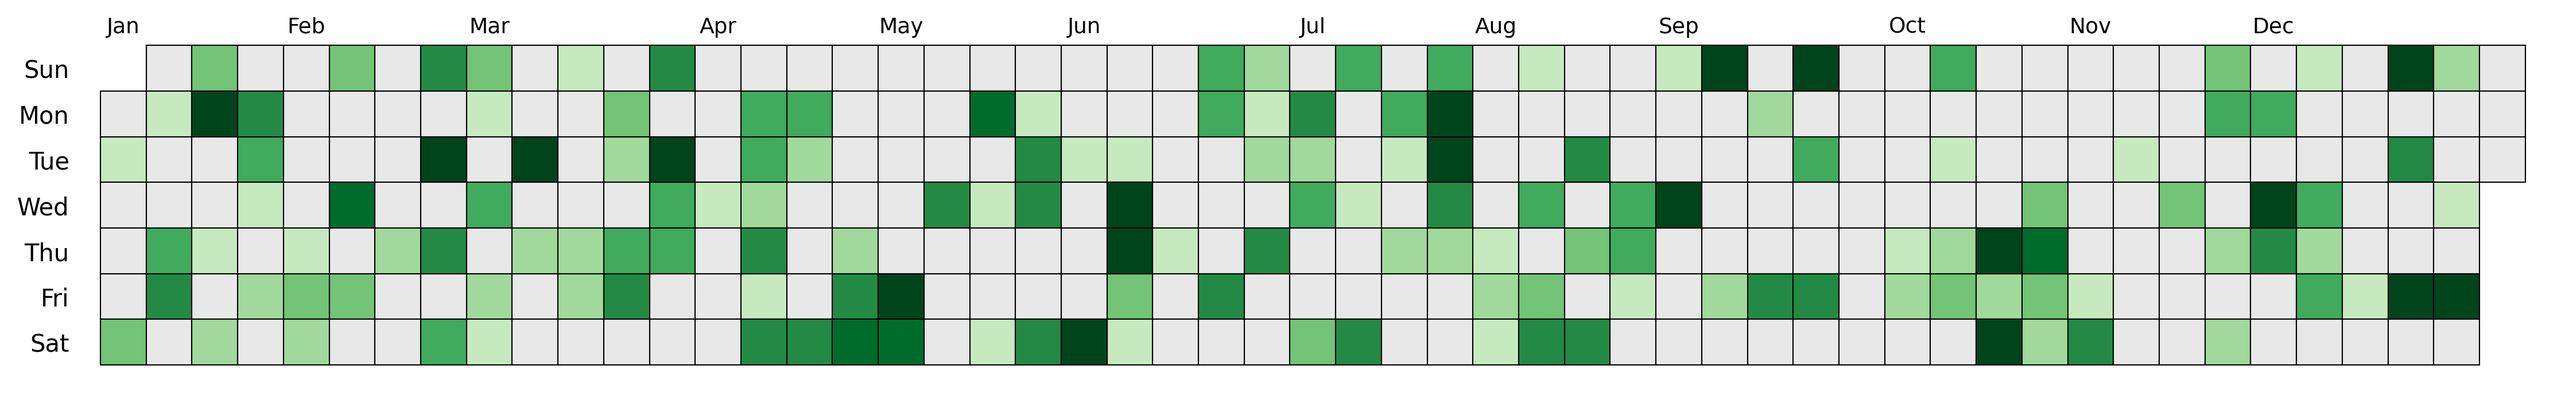
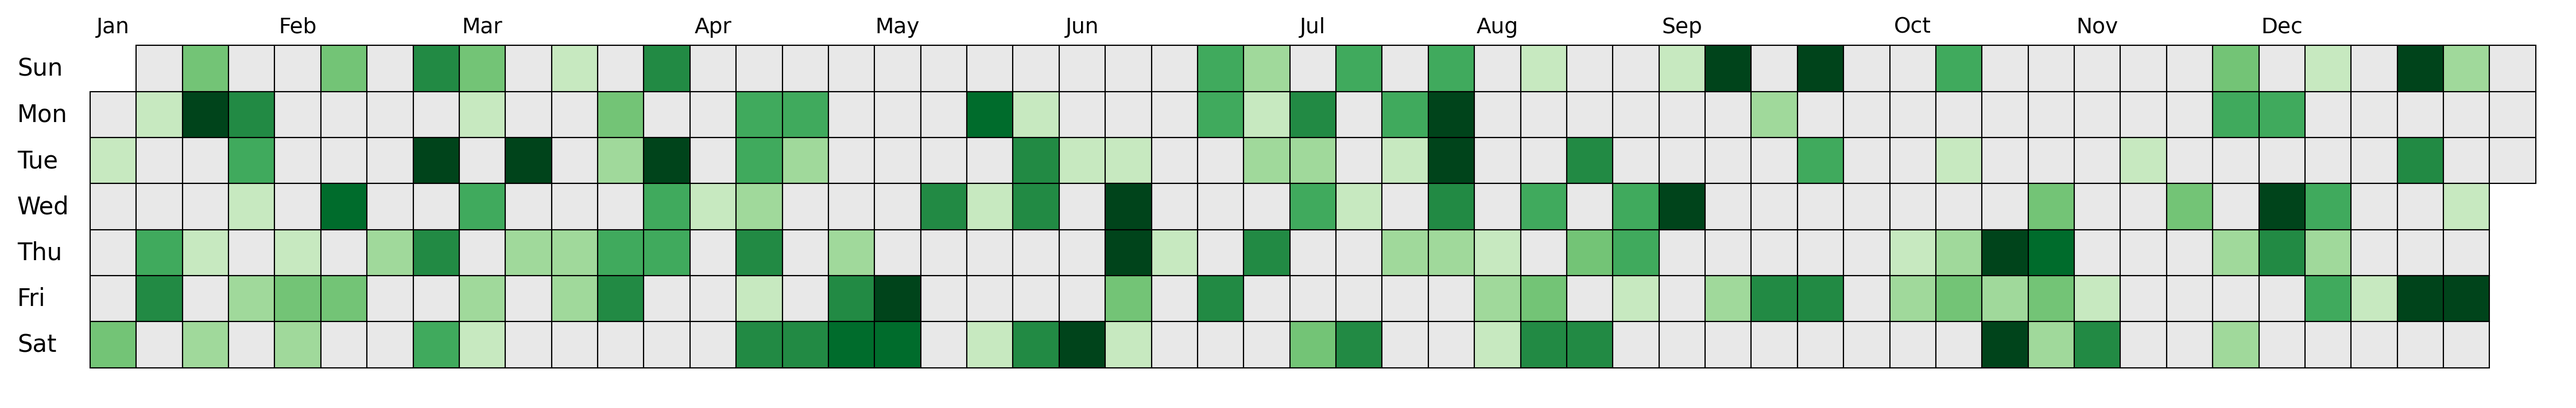
more options

diff --git a/dayplot/main.py b/dayplot/main.py
@@ -1,7 +1,7 @@
 import matplotlib.pyplot as plt
 import matplotlib.patches as patches
+from matplotlib.colors import LinearSegmentedColormap
 import numpy as np
-import pandas as pd
 
 from collections import defaultdict
 from datetime import datetime, timedelta
@@ -15,51 +15,98 @@ def github_chart(
     edgecolor="black",
     color_for_none="#e8e8e8",
     cmap="Greens",
+    month_kws={},
+    day_kws={},
 ):
     """
     Create a GitHub-style heatmap (contribution chart) from input dates and values.
 
+    This function generates a calendar heatmap similar to GitHub's contribution graph, where
+    each cell represents a day colored according to the corresponding value. The chart is
+    organized by weeks (columns) and days of the week (rows), starting from a specified
+    start date to an end date.
+
     Parameters
     ----------
     dates : list
-        A list of date-like objects (date, datetime, or string in YYYY-MM-DD format).
-        Must have the same length as 'values'.
+        A list of date-like objects (e.g., `datetime.date`, `datetime.datetime`, or
+        strings in "YYYY-MM-DD" format). Must have the same length as `values`.
     values : list of int or float
-        Contribution (or count) values corresponding to each date.
-        Must have the same length as 'dates'.
-    start_date : date, datetime, or str, optional
-        The earliest date to display on the chart. If not provided,
-        the min date found in `dates` is used.
-    end_date : date, datetime, or str, optional
-        The latest date to display on the chart. If not provided,
-        the max date found in `dates` is used.
-    cmap : str, optional
-        A valid matplotlib colormap name. Defaults to "Greens".
+        A list of numeric values corresponding to each date in `dates`. These values
+        represent contributions or counts for each day and must have the same length
+        as `dates`.
+    start_date : {None, date, datetime, str}, optional
+        The earliest date to display on the chart. Can be a `date`, `datetime`, or a
+        string in "YYYY-MM-DD" format. If not provided, the minimum date found in
+        `dates` will be used.
+    end_date : {None, date, datetime, str}, optional
+        The latest date to display on the chart. Can be a `date`, `datetime`, or a
+        string in "YYYY-MM-DD" format. If not provided, the maximum date found in
+        `dates` will be used.
+    edgecolor : str, optional
+        Color of the edges for each day's rectangle. Defaults to `"black"`.
+    color_for_none : str, optional
+        Color to use for days with no contributions (i.e., count zero). Defaults to
+        `"#e8e8e8"`, a light gray color.
+    cmap : {str, LinearSegmentedColormap}, optional
+        A valid Matplotlib colormap name or a `LinearSegmentedColormap` instance.
+        Defaults to `"Greens"`. The colormap is used to determine the fill color
+        intensity of each day's cell based on its value.
+    month_kws : dict, optional
+        Additional keyword arguments passed to the matplotlib.axes.Axes.text function when
+        labeling month names (outside of `x`, `y` and `s`).
+    day_kws : dict, optional
+        Additional keyword arguments passed to the matplotlib.axes.Axes.text function when
+        labeling weekday names on the y-axis (outside of `x`, `y` and `s`).
 
     Returns
     -------
     fig : matplotlib.figure.Figure
-        The figure object for the chart.
+        The Matplotlib figure object containing the heatmap.
     ax : matplotlib.axes.Axes
-        The axes object containing the heatmap.
+        The Matplotlib axes object on which the heatmap is plotted.
+
+    Notes
+    -----
+    - The function aggregates multiple entries for the same date by summing their
+      values.
+    - The grid is laid out with weeks as columns and days of the week as rows, starting
+      with Sunday at the top. The y-axis is inverted so that Sunday appears at the
+      top of the chart.
+    - Month labels are placed above the chart aligned with the start of each month.
+    - Weekday labels are placed to the left of the chart.
+    - The heatmap color intensity is scaled relative to the 90th percentile of all
+      non-zero values to reduce the impact of outliers.
+
+    Examples
+    --------
+    >>> import dayplot as dplot
+    >>> import pandas as pd
+    >>> df = pd.DataFrame({
+    ...     'date': ['2024-01-01', '2024-01-02', '2024-01-03'],
+    ...     'values': [5, 10, 3]
+    ... })
+    >>> fig, ax = dplot.github_chart(
+    ...     df['date'],
+    ...     df['values'],
+    ...     start_date='2024-01-01',
+    ...     end_date='2024-01-31'
+    ...)
+    >>> fig.show()
     """
 
     if len(dates) != len(values):
         raise ValueError("`dates` and `values` must have the same length.")
 
-    # 1) Build a dictionary that maps each date to a summed value
     date_counts = defaultdict(int)
     for d, v in zip(dates, values):
-        # Convert datetime to date if needed
         if isinstance(d, datetime):
             d = d.date()
-        # Convert string to date if needed
         elif isinstance(d, str):
             d = datetime.strptime(d, "%Y-%m-%d").date()
 
         date_counts[d] += v
 
-    # 2) Determine the min and max date from the data if not supplied
     min_data_date = min(date_counts.keys())
     max_data_date = max(date_counts.keys())
 
@@ -68,7 +115,6 @@ def github_chart(
     if end_date is None:
         end_date = max_data_date
 
-    # Convert start_date and end_date to date objects if needed
     if isinstance(start_date, datetime):
         start_date = start_date.date()
     elif isinstance(start_date, str):
@@ -79,15 +125,9 @@ def github_chart(
     elif isinstance(end_date, str):
         end_date = datetime.strptime(end_date, "%Y-%m-%d").date()
 
-    # 3) Build the full date range
     delta_days = (end_date - start_date).days + 1
     full_range = [start_date + timedelta(days=i) for i in range(delta_days)]
 
-    # 4) Prepare data for plotting
-    #    We'll map each date to (week_index, day_of_week, count).
-    #    day_of_week = Monday(0) ... Sunday(6)
-    #    week_index is how many weeks from the start date.
-    #    We'll center the date's "week index" around Monday(0).
     data_for_plot = []
     for d in full_range:
         days_from_start = (d - start_date).days
@@ -97,23 +137,30 @@ def github_chart(
         count = date_counts.get(d, 0)
         data_for_plot.append((week_index, day_of_week, count))
 
-    # Number of weeks in the entire range
     total_weeks = (end_date - start_date).days // 7 + 1
 
-    # 5) Create the plot
     fig, ax = plt.subplots(figsize=(15, 6))
     ax.set_aspect("equal")
 
-    # If we have nonzero contributions, find the 90th percentile for color scaling
     valid_counts = [val for val in date_counts.values() if val > 0]
     if valid_counts:
         p90 = np.percentile(valid_counts, 90)
     else:
         p90 = 1  # fallback if no nonzero values
 
+    if isinstance(cmap, str):
+        cmap = plt.get_cmap(cmap)
+    elif isinstance(cmap, LinearSegmentedColormap):
+        pass
+    else:
+        raise ValueError(
+            "Invalid cmap input. It must be either a valid matplotlib colormap"
+            "  (string) or a matplotlib.colors.LinearSegmentedColormap"
+        )
+
     for week, weekday, count in data_for_plot:
         if count > 0:
-            color = plt.get_cmap(cmap)((count + 1) / (p90 + 1))
+            color = cmap((count + 1) / (p90 + 1))
         else:
             color = color_for_none
         rect = patches.Rectangle(
@@ -121,6 +168,12 @@ def github_chart(
         )
         ax.add_patch(rect)
 
+    month_text_style = dict(
+        ha="center",
+        va="center",
+        fontsize=9,
+    )
+    month_text_style.update(month_kws)
     month_starts = [d for d in full_range if d.day == 1]
     for m_start in month_starts:
         week_of_month = ((m_start - start_date).days + start_date.weekday()) // 7
@@ -128,19 +181,31 @@ def github_chart(
             week_of_month + 0.5,
             -0.4,  # place label just outside the grid
             m_start.strftime("%b"),
-            ha="center",
-            va="center",
-            fontsize=9,
+            month_text_style,
         )
 
     ax.spines[["top", "right", "left", "bottom"]].set_visible(False)
     ax.set_xlim(-0.5, total_weeks + 0.5)
     ax.set_ylim(-0.5, 7.5)
     ax.set_xticks([])
-    ax.set_yticks(
-        ticks=[0.5, 1.5, 2.5, 3.5, 4.5, 5.5, 6.5],
-        labels=["Sun", "Mon", "Tue", "Wed", "Thu", "Fri", "Sat"],
+    ax.set_yticks([])
+
+    day_text_style = dict(
+        transform=ax.get_yaxis_transform(),
+        ha="left",
+        va="center",
     )
+    day_text_style.update(day_kws)
+    ticks = [0.5, 1.5, 2.5, 3.5, 4.5, 5.5, 6.5]
+    labels = ["Sun", "Mon", "Tue", "Wed", "Thu", "Fri", "Sat"]
+    for y_tick, day in zip(ticks, labels):
+        ax.text(
+            -0.02,
+            y_tick,
+            day,
+            **day_text_style,
+        )
+
     ax.tick_params(size=0)
     ax.invert_yaxis()  # so Sunday is at the top
 
@@ -151,7 +216,7 @@ def github_chart(
 if __name__ == "__main__":
     import pandas as pd
 
-    df = pd.read_csv("sample.csv")
+    df = pd.read_csv("dayplot/data/sample.csv")
     df.loc[df["date"] == "2024-01-02", "values"] = 25
 
     fig, ax = github_chart(
